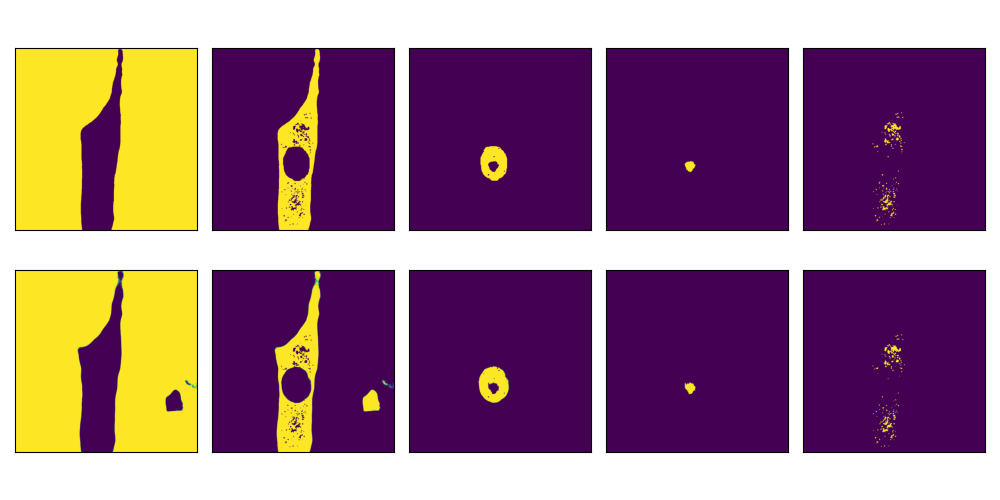
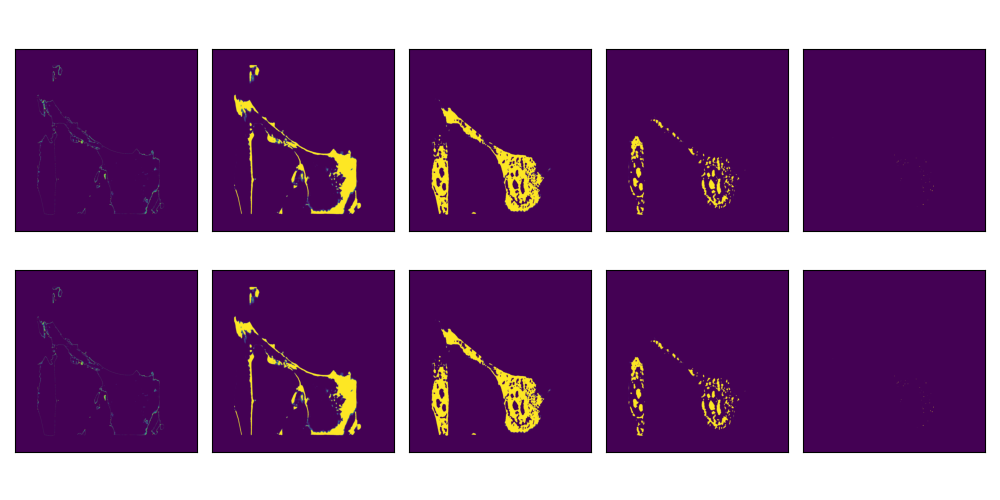
update unet_test_save

diff --git a/qpi_seg/test/unet_test_save.py b/qpi_seg/test/unet_test_save.py
@@ -10,6 +10,7 @@ import numpy as np
 import qpi_seg.visualizing_utils.plot_grids as pg
 import qpi_seg.train.split_mask_5_channels as split
 import qpi_seg.visualizing_utils.visualize_unseen_unmasked as visualize
+from skimage.transform import resize
 
 device = torch.device("cuda") if torch.cuda.is_available() else torch.device("cpu")
 #assert torch.cuda.is_available()
@@ -32,10 +33,10 @@ model.load_state_dict(model_save['model_state_dict'])
 model=model.to(device)
 
 #put your unseen images here
-test_images_folder=r'C:\Users\anous\OneDrive - Johns Hopkins\2026_datanalysis\dlmi2\UNSEEN_MIP_1'
+test_images_folder=r'C:\Users\anous\OneDrive - Johns Hopkins\2026_datanalysis\dlmi2\Test_Santosh_MIP'
 
 #put folder where masks will be saved
-unet_masks_output_folder=r'C:\Users\anous\OneDrive - Johns Hopkins\2026_datanalysis\dlmi2\UNSEEN_UNET_MASK'
+unet_masks_output_folder=r'C:\Users\anous\OneDrive - Johns Hopkins\2026_datanalysis\dlmi2\Test_Santosh_MIP_Output'
 
 
 test_files= os.listdir(test_images_folder)
@@ -47,42 +48,50 @@ out_file_name_stems=[os.path.splitext(file)[0][:30]+'_unet_masks.tiff'for file i
 out_file_name_masks=[os.path.join(unet_masks_output_folder, file) for file in out_file_name_stems]
 
 from_np=transforms_v2.Lambda(lambda x: torch.from_numpy(x))
-#this needs to be multiple of 32
-im_size=2240
-transform = transforms_v2.CenterCrop((im_size,im_size))
 
 #for victor's dataset may have to play with this
-norm_min=13300
-norm_max=14100
+norm_min=13370
+norm_max=14200
 model.eval()
 model = model.to(device)
-clustermaps=[]
-
-
+clustermap=[]
+clustermap_list=[]
+scale= 0.2222 / 0.095 
 for i in range(len(test_files)):
     w=test_images[i].shape[0]
     h=test_images[i].shape[1]
-    print(w,h)
-    cropped_transform=transforms_v2.CenterCrop((w,h))
-    torch_test_image = from_np(test_images[i])
+    new_h, new_w = round(h*scale), round(w*scale)
+    img_resampled = resize(test_images[i], (new_h, new_w), anti_aliasing=True, preserve_range=True)
+    # pad up to the smallest multiple of 32 that still contains the full
+    # image, per image, so nothing is truncated regardless of input size
+    im_size = 32 * ((max(new_w, new_h) + 31) // 32)
+    
+    transform = transforms_v2.CenterCrop((im_size, im_size))
+    cropped_transform=transforms_v2.CenterCrop((new_w,new_h))
+    torch_test_image = from_np(img_resampled)
     torch_test_image=torch_test_image.float()
     img_norm= (torch_test_image - norm_min) / (norm_max - norm_min)
-    img_norm=img_norm.unsqueeze(dim=0).to(device)
-    img_norm2=transform(img_norm.unsqueeze(dim=0).to(device))
+    img_norm2=img_norm.unsqueeze(dim=0).to(device)
+    img_norm2=transform(img_norm2.unsqueeze(dim=0).to(device))
     torch_prediction=model(img_norm2)
     clustermap=np.zeros((im_size,im_size))
     torch_prediction=torch_prediction.reshape(5,im_size,im_size).detach().cpu()
-    ch1_prediction = torch_prediction[0,:,:]
-    ch2_prediction = torch_prediction[1,:,:]
-    ch3_prediction= torch_prediction[2,:,:]
-    ch4_prediction=torch_prediction[3,:,:]
-    ch5_prediction=torch_prediction[4,:,:]
-
+    ch1_prediction = torch_prediction[0,:,:]>=0.5
+    ch2_prediction = torch_prediction[1,:,:]>=0.5
+    ch3_prediction= torch_prediction[2,:,:]>=0.5
+    ch4_prediction=torch_prediction[3,:,:]>=0.5
+    ch5_prediction=torch_prediction[4,:,:]>=0.5
     clustermap[ch1_prediction>=0.5]=0
     clustermap[ch2_prediction>=0.5]=1
     clustermap[ch3_prediction>=0.5]=2
     clustermap[ch4_prediction>=0.5]=3
     clustermap[ch5_prediction>=0.5]=4
+    clustermap_list.append(ch1_prediction)
+    clustermap_list.append(ch2_prediction)
+    clustermap_list.append(ch3_prediction)
+    clustermap_list.append(ch4_prediction)
+    clustermap_list.append(ch5_prediction)
+    pg.plot_grids(clustermap_list,torch_prediction  )
     
     transformed_mip=img_norm2.squeeze(dim=0)
     transformed_mip=transformed_mip.squeeze(dim=0).cpu()
@@ -90,19 +99,9 @@ for i in range(len(test_files)):
     #print(clustermap.shape)
     
     cropped_clustermap=cropped_transform((from_np(clustermap)).unsqueeze(dim=0))
+    visualize.visualize(img_norm, )
     print(cropped_clustermap.shape)
-    #visualize.visualize(test_images[i], cropped_clustermap.squeeze(dim=0))
-    clustermaps.append(cropped_clustermap.squeeze(dim=0))
-
-for i in range(len(out_file_name_masks)):
     tifffile.imwrite(
         out_file_name_masks[i],
-        clustermaps[i].detach().cpu().numpy()
+        cropped_clustermap.squeeze(dim=0).detach().cpu().numpy()
     )
-
-#plot grid is a function that outputs 10 images (5 x 2 pattern)
-#pg.plot_grids(test_images[0:5],clustermaps[0:5] )
-
-
-
-
